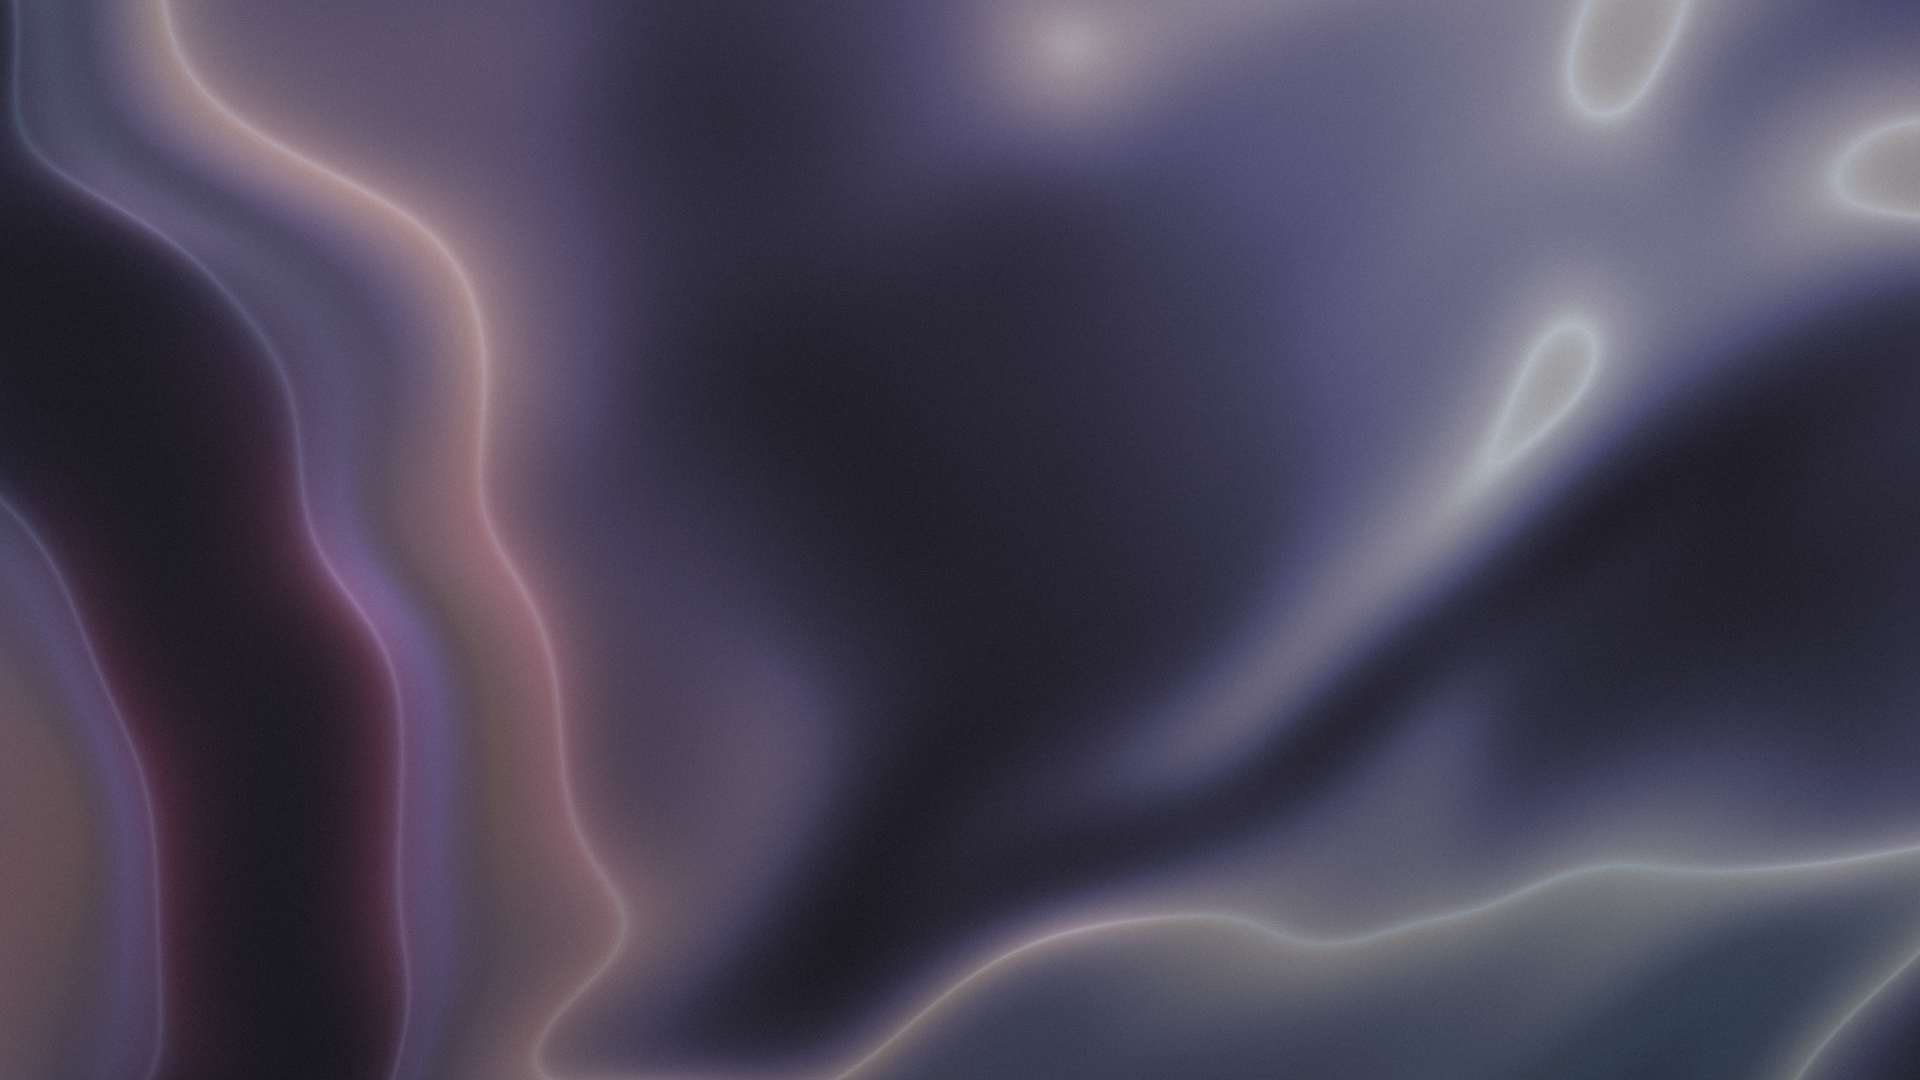
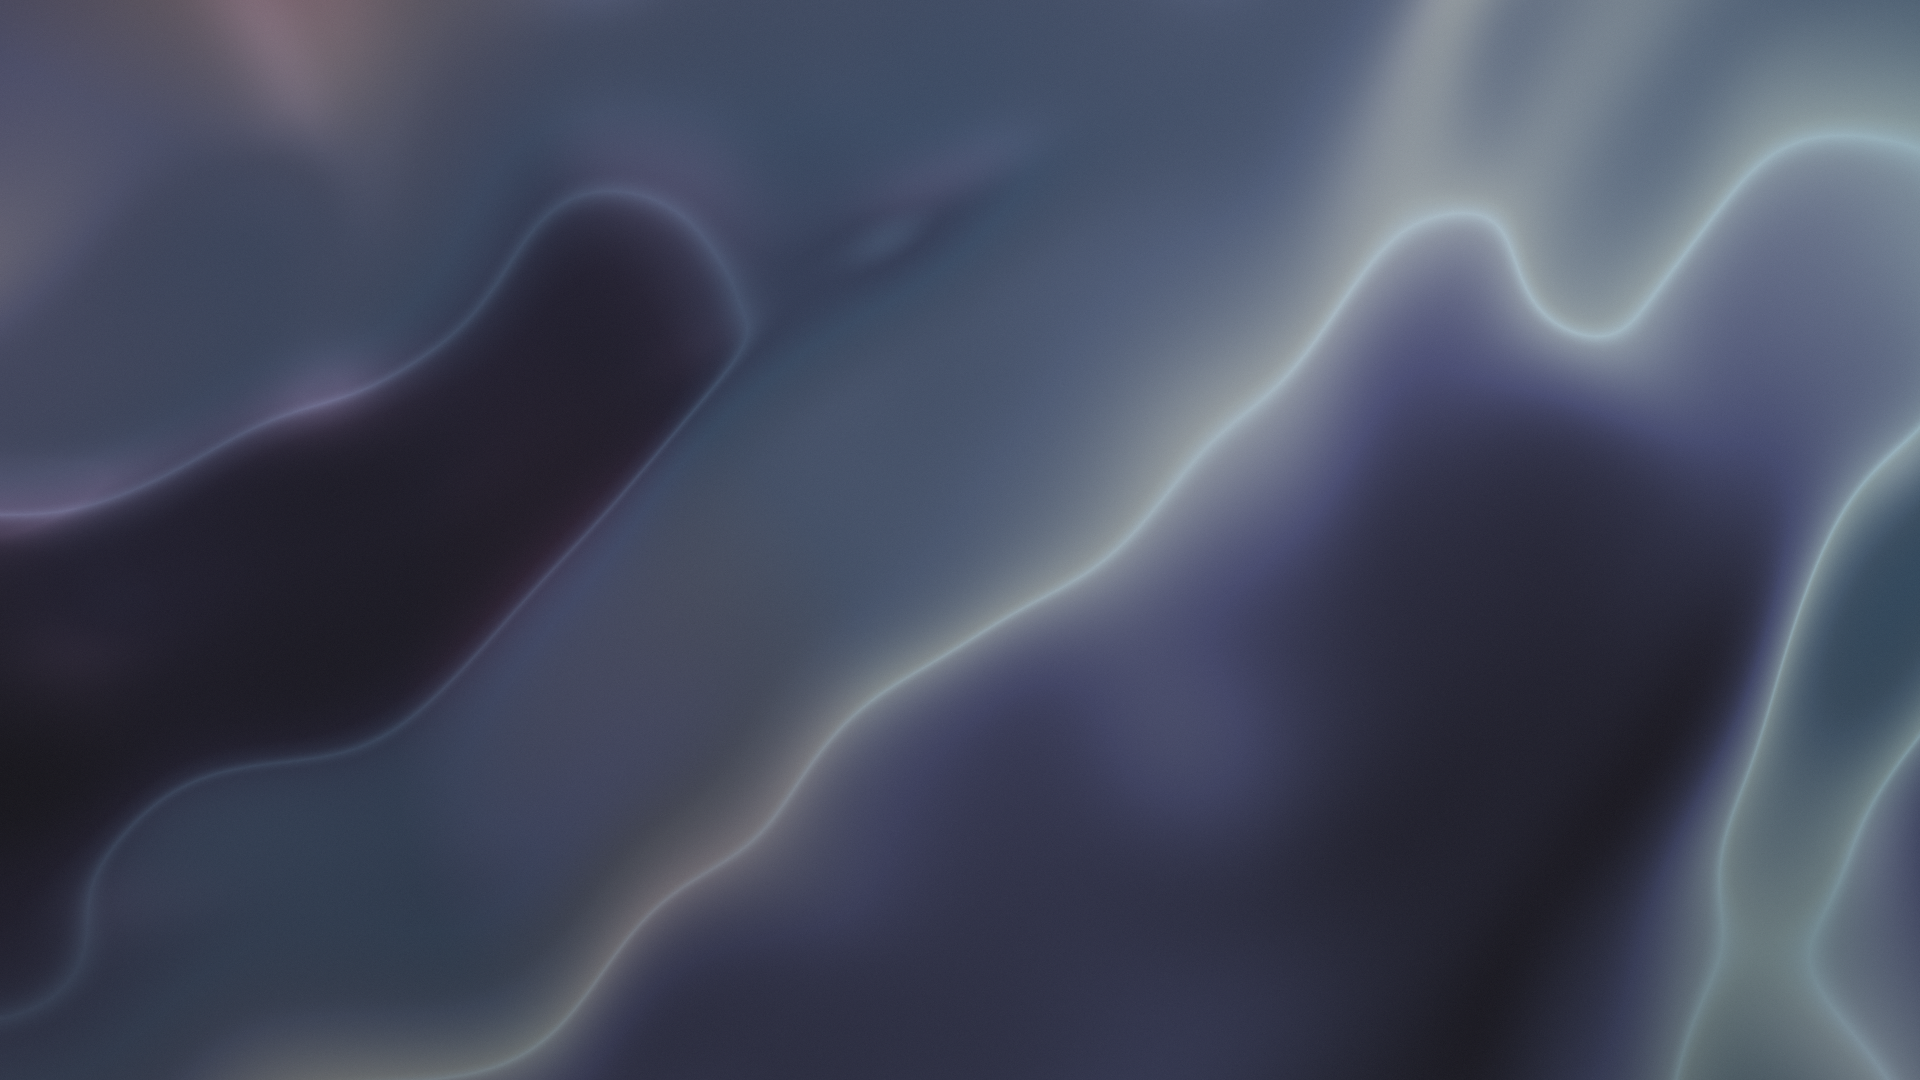
Wallpaper look toggles (vignette, specular, bloom, grading), finer grain
Grading is baked once into a texture; vignette, specular and bloom ride
in the vertex stage, so the fragment path is unchanged.

diff --git a/payload/compositor/lumaglass/LumaHome.qml b/payload/compositor/lumaglass/LumaHome.qml
@@ -61,7 +61,8 @@ Item {
             motion: { focusMs: 150, focusEasing: "OutCubic", cardMs: 180, cardEasing: "OutCubic",
                       scrollMs: 300, scrollEasing: "OutCubic", labelMs: 120, layerMs: 220, reduced: false },
             tiles: { inset: 19, fullCanvasEdgeAlpha: 0.9, icons: {} },
-            wallpaperMotion: { enabled: true, amplitude: 4, speed: 1, depth: 0.25, scale: 1, detail: 0.35, fps: 30 },
+            wallpaperMotion: { enabled: true, amplitude: 4, speed: 1, depth: 0.25, scale: 1, detail: 0.35, fps: 30,
+                               vignette: 0, specular: 0, bloom: 0, saturation: 1, contrast: 1 },
             idleDim: { enabled: true, minutes: 5, opacity: 0.6 },
             clock: { style: "digital", twelveHour: true, greeting: true, secondHand: "#ff3b5c" },
             weather: { zip: "30311", units: "fahrenheit", days: 5 },
@@ -260,7 +261,7 @@ Item {
         id: wallpaperImg
         anchors.fill: parent
         z: -2
-        visible: !liveWall.visible
+        visible: false
         source: root.resolvePath(theme.wallpaper)
         asynchronous: true
         cache: false
@@ -268,6 +269,42 @@ Item {
                   : root.wallpaperFit === "contain" ? Image.PreserveAspectFit : Image.Stretch
         onStatusChanged: if (status === Image.Ready) root.computeMaterial()
     }
+    // Colour grade (saturation / contrast) baked once into a texture the live pass, the still
+    // path and the glass blur all read; re-baked only when the values change, so grading
+    // costs nothing per frame.
+    ShaderEffect {
+        id: gradePass
+        width: 1920; height: 1080
+        visible: false
+        property variant src: wallpaperImg
+        property real saturationK: root.wallMotion.saturation === undefined ? 1 : root.wallMotion.saturation
+        property real contrastK: root.wallMotion.contrast === undefined ? 1 : root.wallMotion.contrast
+        onSaturationKChanged: gradedTex.scheduleUpdate()
+        onContrastKChanged: gradedTex.scheduleUpdate()
+        fragmentShader: "
+            uniform sampler2D src;
+            uniform mediump float saturationK;
+            uniform mediump float contrastK;
+            uniform lowp float qt_Opacity;
+            varying highp vec2 qt_TexCoord0;
+            void main() {
+                lowp vec3 c = texture2D(src, qt_TexCoord0).rgb;
+                mediump float l = dot(c, vec3(0.299, 0.587, 0.114));
+                c = (mix(vec3(l), c, saturationK) - 0.5) * contrastK + 0.5;
+                gl_FragColor = vec4(c, 1.0) * qt_Opacity;
+            }"
+    }
+    ShaderEffectSource {
+        id: gradedTex
+        sourceItem: gradePass
+        width: 1920; height: 1080
+        textureSize: Qt.size(1920, 1080)
+        live: false
+        z: -2
+        visible: !liveWall.visible && wallpaperImg.status === Image.Ready   // the still path draws the graded texture
+        Connections { target: wallpaperImg; onStatusChanged: if (wallpaperImg.status === Image.Ready) gradedTex.scheduleUpdate() }
+    }
+
     // Live wallpaper (theme.wallpaperMotion): the same texture through a slow domain warp, a
     // few pixels of drift from two sine fields, with the warp also modulating brightness so
     // light appears to play over the waves (the "depth"). One quad, one read per pixel,
@@ -282,7 +319,7 @@ Item {
         anchors.fill: parent
         z: -2
         visible: root.wallMotionOn && wallpaperImg.status === Image.Ready
-        property variant src: wallpaperImg
+        property variant src: gradedTex
         property real t: 0
         property real amp: (root.wallMotion.amplitude || 4) / 1920
         property real speed: root.wallMotion.speed || 1
@@ -298,6 +335,12 @@ Item {
         // phases advanced on the CPU once per tick; the fragment only evaluates the fields
         property vector4d phase: Qt.vector4d(t * 0.70, t * 0.50, t * 0.40, t * 0.90)
         property vector4d params: Qt.vector4d(amp, depth, waveScale, detail)
+        // look: vignette, specular, bloom, saturation | contrast
+        property real vignette: root.wallMotion.vignette === undefined ? 0 : root.wallMotion.vignette
+        property real specular: root.wallMotion.specular === undefined ? 0 : root.wallMotion.specular
+        property real bloom: root.wallMotion.bloom === undefined ? 0 : root.wallMotion.bloom
+        property vector4d look: Qt.vector4d(vignette, specular, bloom, 0)
+        property variant glow: blurTex
         Timer {
             interval: Math.round(1000 / (root.wallMotion.fps || 30))
             running: liveWall.visible && root.hostActive
@@ -311,10 +354,13 @@ Item {
             uniform highp mat4 qt_Matrix;
             uniform highp vec4 phase;
             uniform highp vec4 params;   // amp, depth, scale, detail
+            uniform mediump vec4 look;   // vignette, specular, bloom, saturation
+            uniform sampler2D glow;
             attribute highp vec4 qt_Vertex;
             attribute highp vec2 qt_MultiTexCoord0;
             varying highp vec2 vUv;
             varying mediump float vLight;
+            varying mediump vec3 vAdd;   // specular + bloom, added per fragment
             void main() {
                 highp vec2 uv = qt_MultiTexCoord0;
                 highp float k = params.z;
@@ -325,6 +371,16 @@ Item {
                 vUv = uv + params.x * disp;
                 // light follows the slope of the displacement: crests brighten, troughs darken
                 vLight = 1.0 + params.y * (0.3 * (w1 - 0.5 * w2) + params.w * 0.25 * w3);
+                // glossy ridge: a narrow lobe on the crest of the main field
+                mediump float crest = clamp(0.5 + 0.5 * (w1 + 0.4 * w3), 0.0, 1.0);
+                mediump float spec = look.y * 0.35 * crest * crest * crest * crest * crest * crest;
+                // vignette folded into the light term: quadratic falloff, aspect-corrected
+                highp vec2 q = (uv - 0.5) * vec2(1.0, 0.5625);
+                vLight *= 1.0 - look.x * 0.75 * smoothstep(0.12, 0.42, dot(q, q));
+                // bloom from the already-baked blur, fetched here: the glow is 30px soft, so
+                // sampling it per vertex and interpolating loses nothing and costs no fragment read
+                mediump vec3 bl = look.z > 0.001 ? max(texture2DLod(glow, vUv, 0.0).rgb - 0.3, 0.0) * look.z : vec3(0.0);
+                vAdd = vec3(spec) + bl;
                 gl_Position = qt_Matrix * qt_Vertex;
             }"
         fragmentShader: "
@@ -335,8 +391,9 @@ Item {
             uniform lowp float qt_Opacity;
             varying highp vec2 vUv;
             varying mediump float vLight;
+            varying mediump vec3 vAdd;
             void main() {
-                lowp vec3 c = texture2D(src, vUv).rgb * vLight;
+                lowp vec3 c = texture2D(src, vUv).rgb * vLight + vAdd;
                 mediump float y = vUv.y;
                 mediump vec4 sc = y < 0.55 ? mix(scrimA, scrimB, y / 0.55) : mix(scrimB, scrimC, (y - 0.55) / 0.45);
                 c = mix(c, sc.rgb, sc.a);
@@ -348,7 +405,7 @@ Item {
     // Every Glass samples blurTex at its own screen rect; nothing here runs per frame.
     ShaderEffectSource {
         id: wallHalf
-        sourceItem: wallpaperImg
+        sourceItem: gradedTex
         width: 960; height: 540
         textureSize: Qt.size(960, 540)
         visible: false

diff --git a/payload/compositor/lumaglass/StatusBar.qml b/payload/compositor/lumaglass/StatusBar.qml
@@ -162,6 +162,11 @@ Item {
             { label: "Wave size", kind: "slider", key: "scale", value: wm.scale === undefined ? 1 : wm.scale, min: 0.5, max: 2.5, step: 0.1, unit: "x" },
             { label: "Detail", kind: "slider", key: "detail", value: wm.detail === undefined ? 0.35 : wm.detail, min: 0, max: 1, step: 0.05, unit: "" },
             { label: "Frame rate", kind: "slider", key: "fps", value: wm.fps === undefined ? 30 : wm.fps, min: 15, max: 60, step: 5, unit: " fps" },
+            { label: "Vignette", kind: "slider", key: "vignette", value: wm.vignette || 0, min: 0, max: 1, step: 0.05, unit: "" },
+            { label: "Specular", kind: "slider", key: "specular", value: wm.specular || 0, min: 0, max: 1, step: 0.05, unit: "" },
+            { label: "Bloom", kind: "slider", key: "bloom", value: wm.bloom || 0, min: 0, max: 1, step: 0.05, unit: "" },
+            { label: "Saturation", kind: "slider", key: "saturation", value: wm.saturation === undefined ? 1 : wm.saturation, min: 0.5, max: 1.5, step: 0.05, unit: "" },
+            { label: "Contrast", kind: "slider", key: "contrast", value: wm.contrast === undefined ? 1 : wm.contrast, min: 0.8, max: 1.3, step: 0.05, unit: "" },
             { label: "TV settings", action: "tvsettings" } ]
         : []
     property var dirty: ({})
@@ -240,7 +245,7 @@ Item {
                 id: settingsBody
                 visible: bar.popoverType === "settings"
                 width: parent.width
-                height: 34 + bar.popoverRows.length * 52
+                height: 34 + bar.popoverRows.length * 46
                 Text {
                     x: 0; y: 0
                     text: "Wallpaper"
@@ -251,8 +256,8 @@ Item {
                 Repeater {
                     model: bar.popoverType === "settings" ? bar.popoverRows : []
                     delegate: Item {
-                        x: 0; y: 34 + index * 52
-                        width: settingsBody.width; height: 44
+                        x: 0; y: 34 + index * 46
+                        width: settingsBody.width; height: 40
                         Rectangle {
                             anchors.fill: parent
                             radius: 12

diff --git a/app.js b/app.js
@@ -106,7 +106,7 @@
     '[mock mode] Using simulated CLI responses'
   ];
 
-  const mockTheme = { wallpaperMotion: { enabled: true, amplitude: 4, speed: 1, depth: 0.25, scale: 1, detail: 0.35, fps: 30 } };
+  const mockTheme = { wallpaperMotion: { enabled: true, amplitude: 4, speed: 1, depth: 0.25, scale: 1, detail: 0.35, fps: 30, vignette: 0, specular: 0, bloom: 0, saturation: 1, contrast: 1 } };
 
   async function mockExec(cmd) {
     // Simulate network delay
@@ -381,7 +381,12 @@
     { key: 'depth', label: 'Depth', min: 0, max: 1, step: 0.05, unit: '', def: 0.25 },
     { key: 'scale', label: 'Wave size', min: 0.5, max: 2.5, step: 0.1, unit: 'x', def: 1 },
     { key: 'detail', label: 'Detail', min: 0, max: 1, step: 0.05, unit: '', def: 0.35 },
-    { key: 'fps', label: 'Frame rate', min: 15, max: 60, step: 5, unit: ' fps', def: 30 }
+    { key: 'fps', label: 'Frame rate', min: 15, max: 60, step: 5, unit: ' fps', def: 30 },
+    { key: 'vignette', label: 'Vignette', min: 0, max: 1, step: 0.05, unit: '', def: 0 },
+    { key: 'specular', label: 'Specular', min: 0, max: 1, step: 0.05, unit: '', def: 0 },
+    { key: 'bloom', label: 'Bloom', min: 0, max: 1, step: 0.05, unit: '', def: 0 },
+    { key: 'saturation', label: 'Saturation', min: 0.5, max: 1.5, step: 0.05, unit: '', def: 1 },
+    { key: 'contrast', label: 'Contrast', min: 0.8, max: 1.3, step: 0.05, unit: '', def: 1 }
   ];
   const wallpaper = { values: {}, timer: null, pending: {} };
 

diff --git a/style.css b/style.css
@@ -488,7 +488,7 @@ html, body {
 
 /* wallpaper motion panel */
 .wallpaper-panel { width: 720px; }
-.wp-row { display: flex; align-items: center; justify-content: space-between; height: 56px; padding: 0 18px; border-radius: 14px; outline: none; }
+.wp-row { display: flex; align-items: center; justify-content: space-between; height: 48px; padding: 0 18px; border-radius: 14px; outline: none; }
 .wp-row:focus { background: rgba(255,255,255,.10); box-shadow: inset 0 0 0 1px rgba(255,255,255,.18); }
 .wp-label { font-size: 24px; font-weight: 600; }
 .wp-value { font-size: 24px; color: var(--ink-2, rgba(242,239,246,.7)); min-width: 160px; text-align: right; }

diff --git a/generators/gen-silk.py b/generators/gen-silk.py
@@ -2,7 +2,7 @@
 """Rosé Pine silk wallpaper: domain-warped folds, rendered at 4K, Lanczos to 1080p.
 
 Crispness: 2x supersample then Lanczos down; ridge sheen carries sub-pixel edges.
-No banding: ~1% luminance grain plus triangular-PDF dither before 8-bit quantisation.
+No banding: ~0.4% luminance grain plus triangular-PDF dither before 8-bit quantisation.
 OLED: black floor at 18/255, no pure black, brightest sheen kept under 92%.
 """
 import sys
@@ -99,7 +99,7 @@ a = np.clip(a, 0, 1)
 
 FLOOR = 18 / 255
 a = FLOOR + a * (1 - FLOOR)
-a += rng.normal(0, 0.009, a.shape[:2]).astype(np.float32)[..., None]            # ~1% luminance grain
+a += rng.normal(0, 0.004, a.shape[:2]).astype(np.float32)[..., None]            # ~0.4% luminance grain: enough with the dither to break banding, not enough to read as texture
 tri = rng.random(a.shape, dtype=np.float32) + rng.random(a.shape, dtype=np.float32) - 1.0  # TPDF, +/-1 LSB
 q = np.clip(a * 255 + tri, 0, 255)
 out = Image.fromarray(np.round(q).astype(np.uint8))

diff --git a/CHANGELOG.md b/CHANGELOG.md
@@ -65,6 +65,13 @@ and this project adheres to [Semantic Versioning](https://semver.org/spec/v2.0.0
   detail and frame rate with the widgets and dock faded out so the wallpaper
   is seen bare; Back saves to theme.json. Other popovers dim the page behind
   them by 30% (22% on the light material).
+- Wallpaper look toggles, all free per frame: vignette and specular
+  (per-vertex, with the wave lighting), bloom (a screen blend of the
+  already-baked blur, fetched per vertex), saturation and contrast (baked
+  once into a graded copy of the wallpaper that the live pass, the still
+  path and the glass blur all read). Measured 58-60 fps with everything on.
+- Wallpaper grain is 0.4% (was 1%): with the TPDF dither that still breaks
+  banding on the dark gradients without reading as texture.
 - OLED care: after `theme.idleDim.minutes` (5) without input the bar, cards
   and dock ease to `theme.idleDim.opacity` (0.6); any key or pointer move
   restores them.
